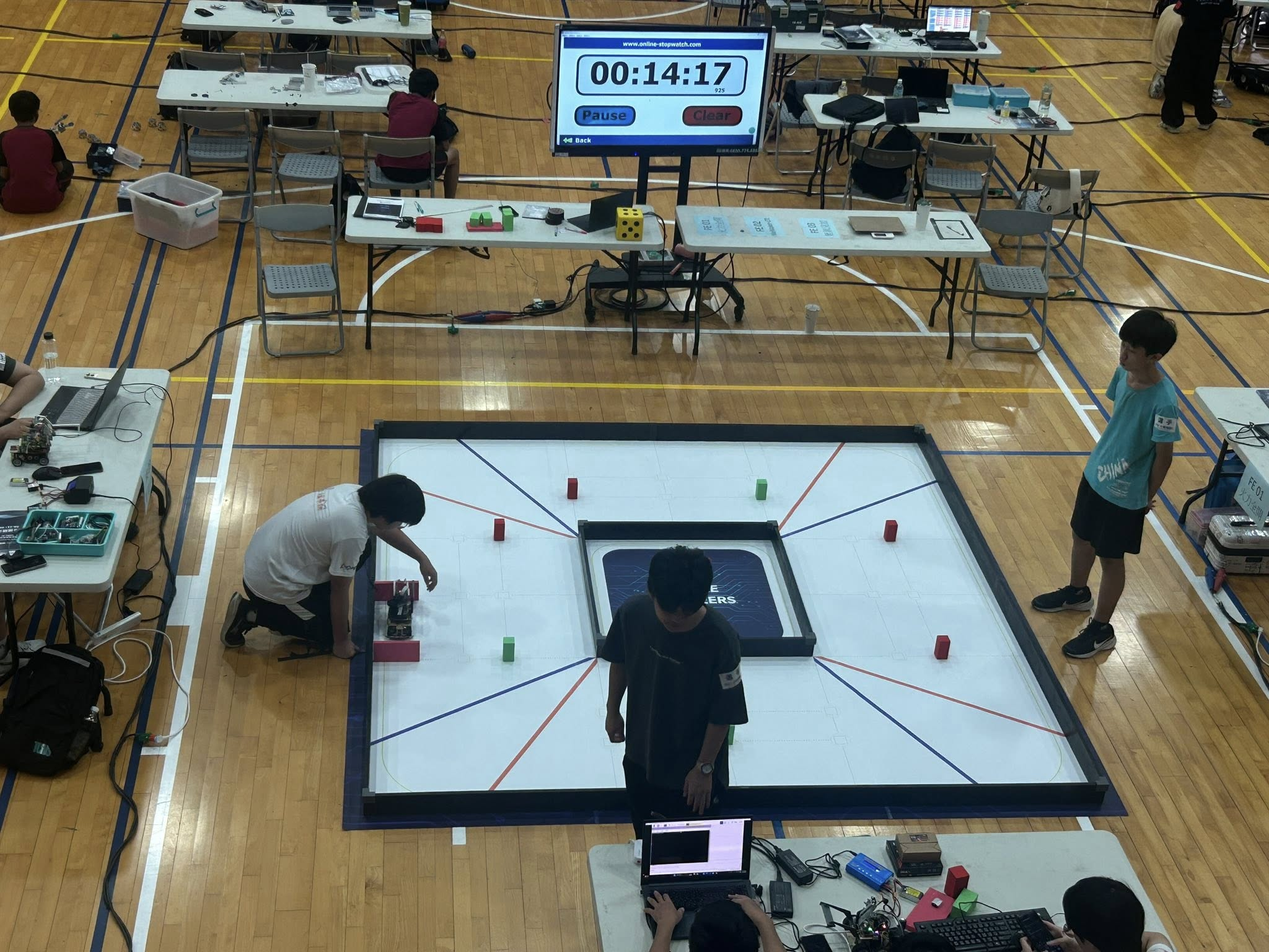
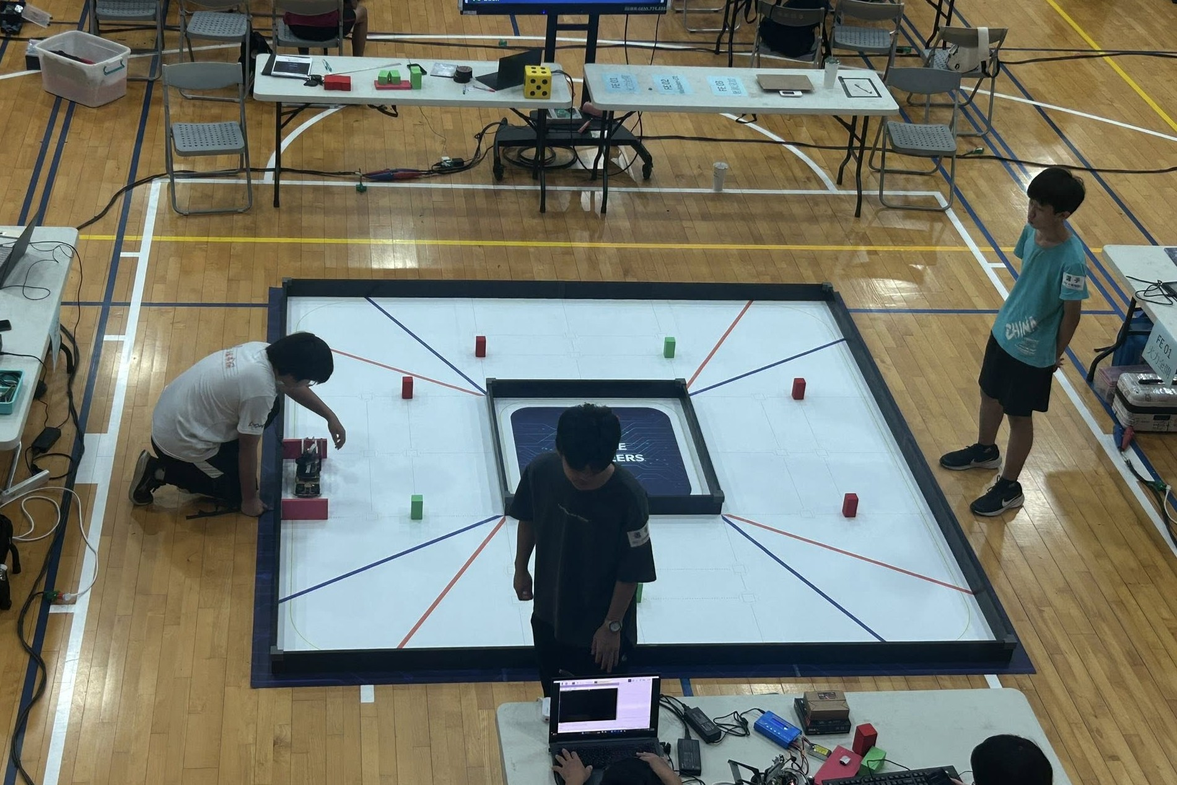
修改工作日誌

diff --git a/other/work_diary/README.md b/other/work_diary/README.md
@@ -161,12 +161,13 @@ The following is a development record of the self-driving car model design and t
  <div align=center>
     <table>
         <tr>
-            <th>Before and After Modification</th>
-            <th>Before and After Modification</th>
+            <th>Waiting for test</th>
+            <th clospan = 2>Competition photo</th>
         </tr>
         <tr>
-            <td><img src="./img/7/前底盤.png"/></td>
-            <td><img src="./img/7/現底盤.png"/></td>
+            <td><img src="./img/8/wait.jpg"/></td>
+            <td><img src="./img/8/practise.jpg"/></td>
+            <td><img src="./img/8"/></td>
         </tr>
     </table>
  </div>
